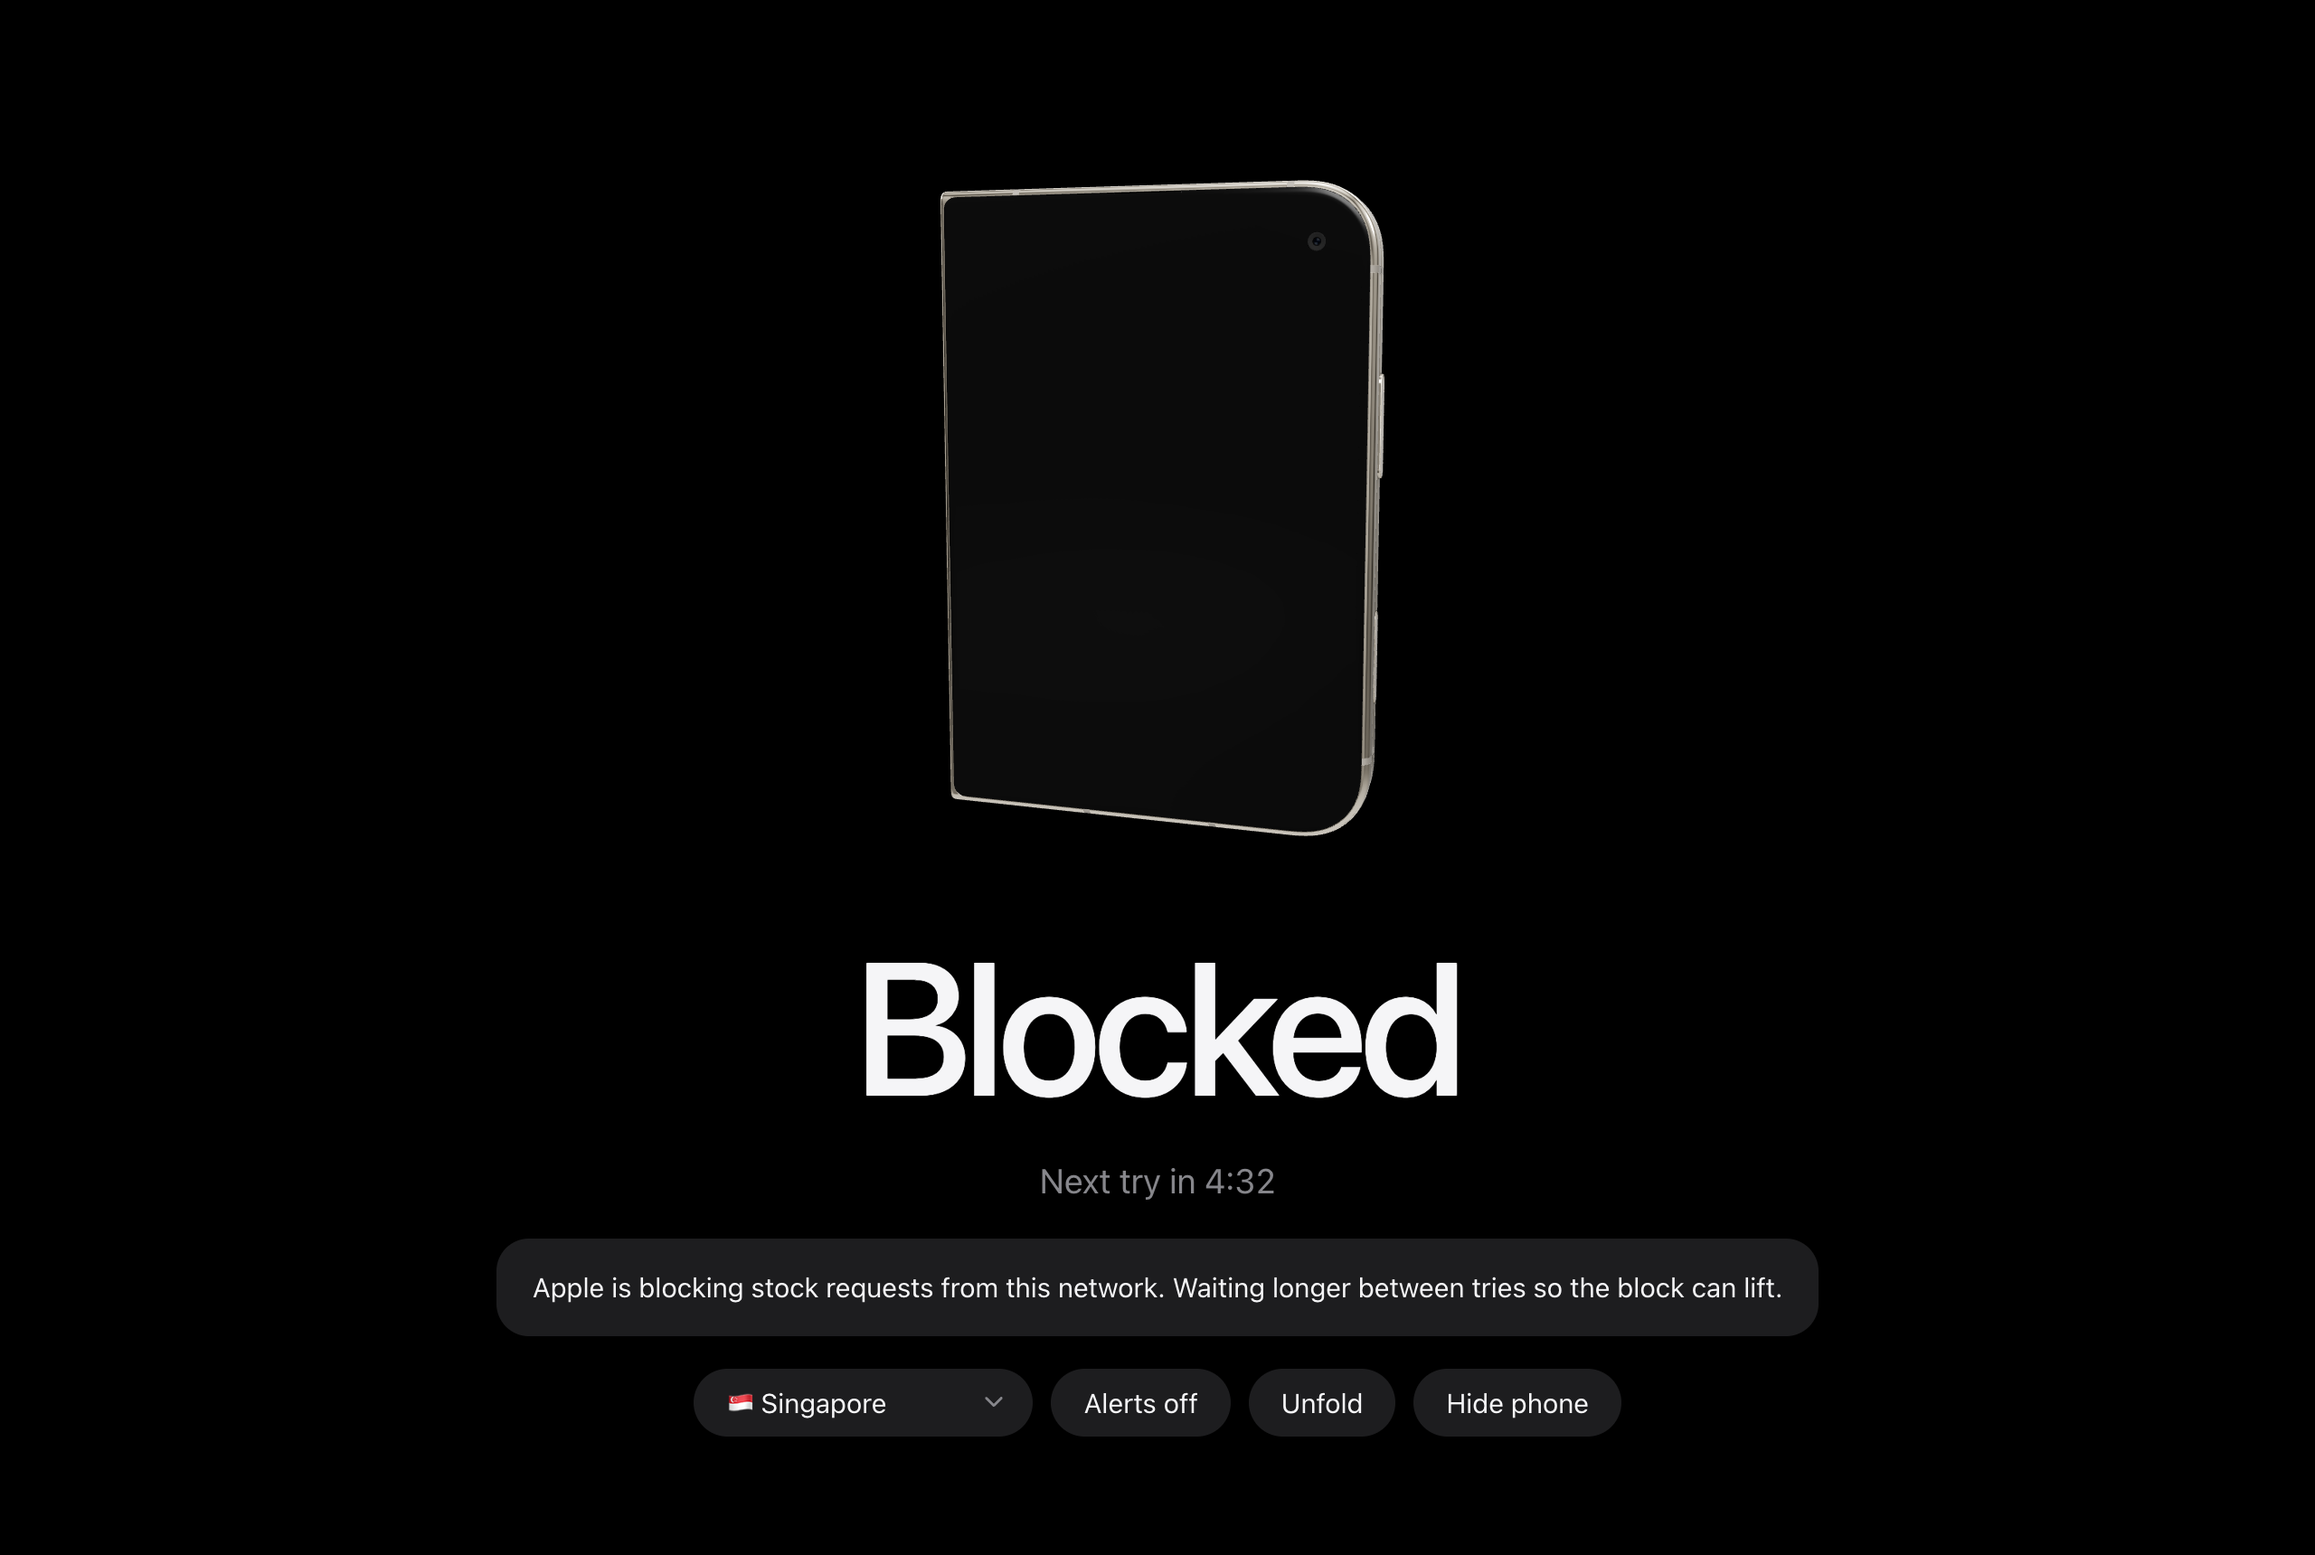
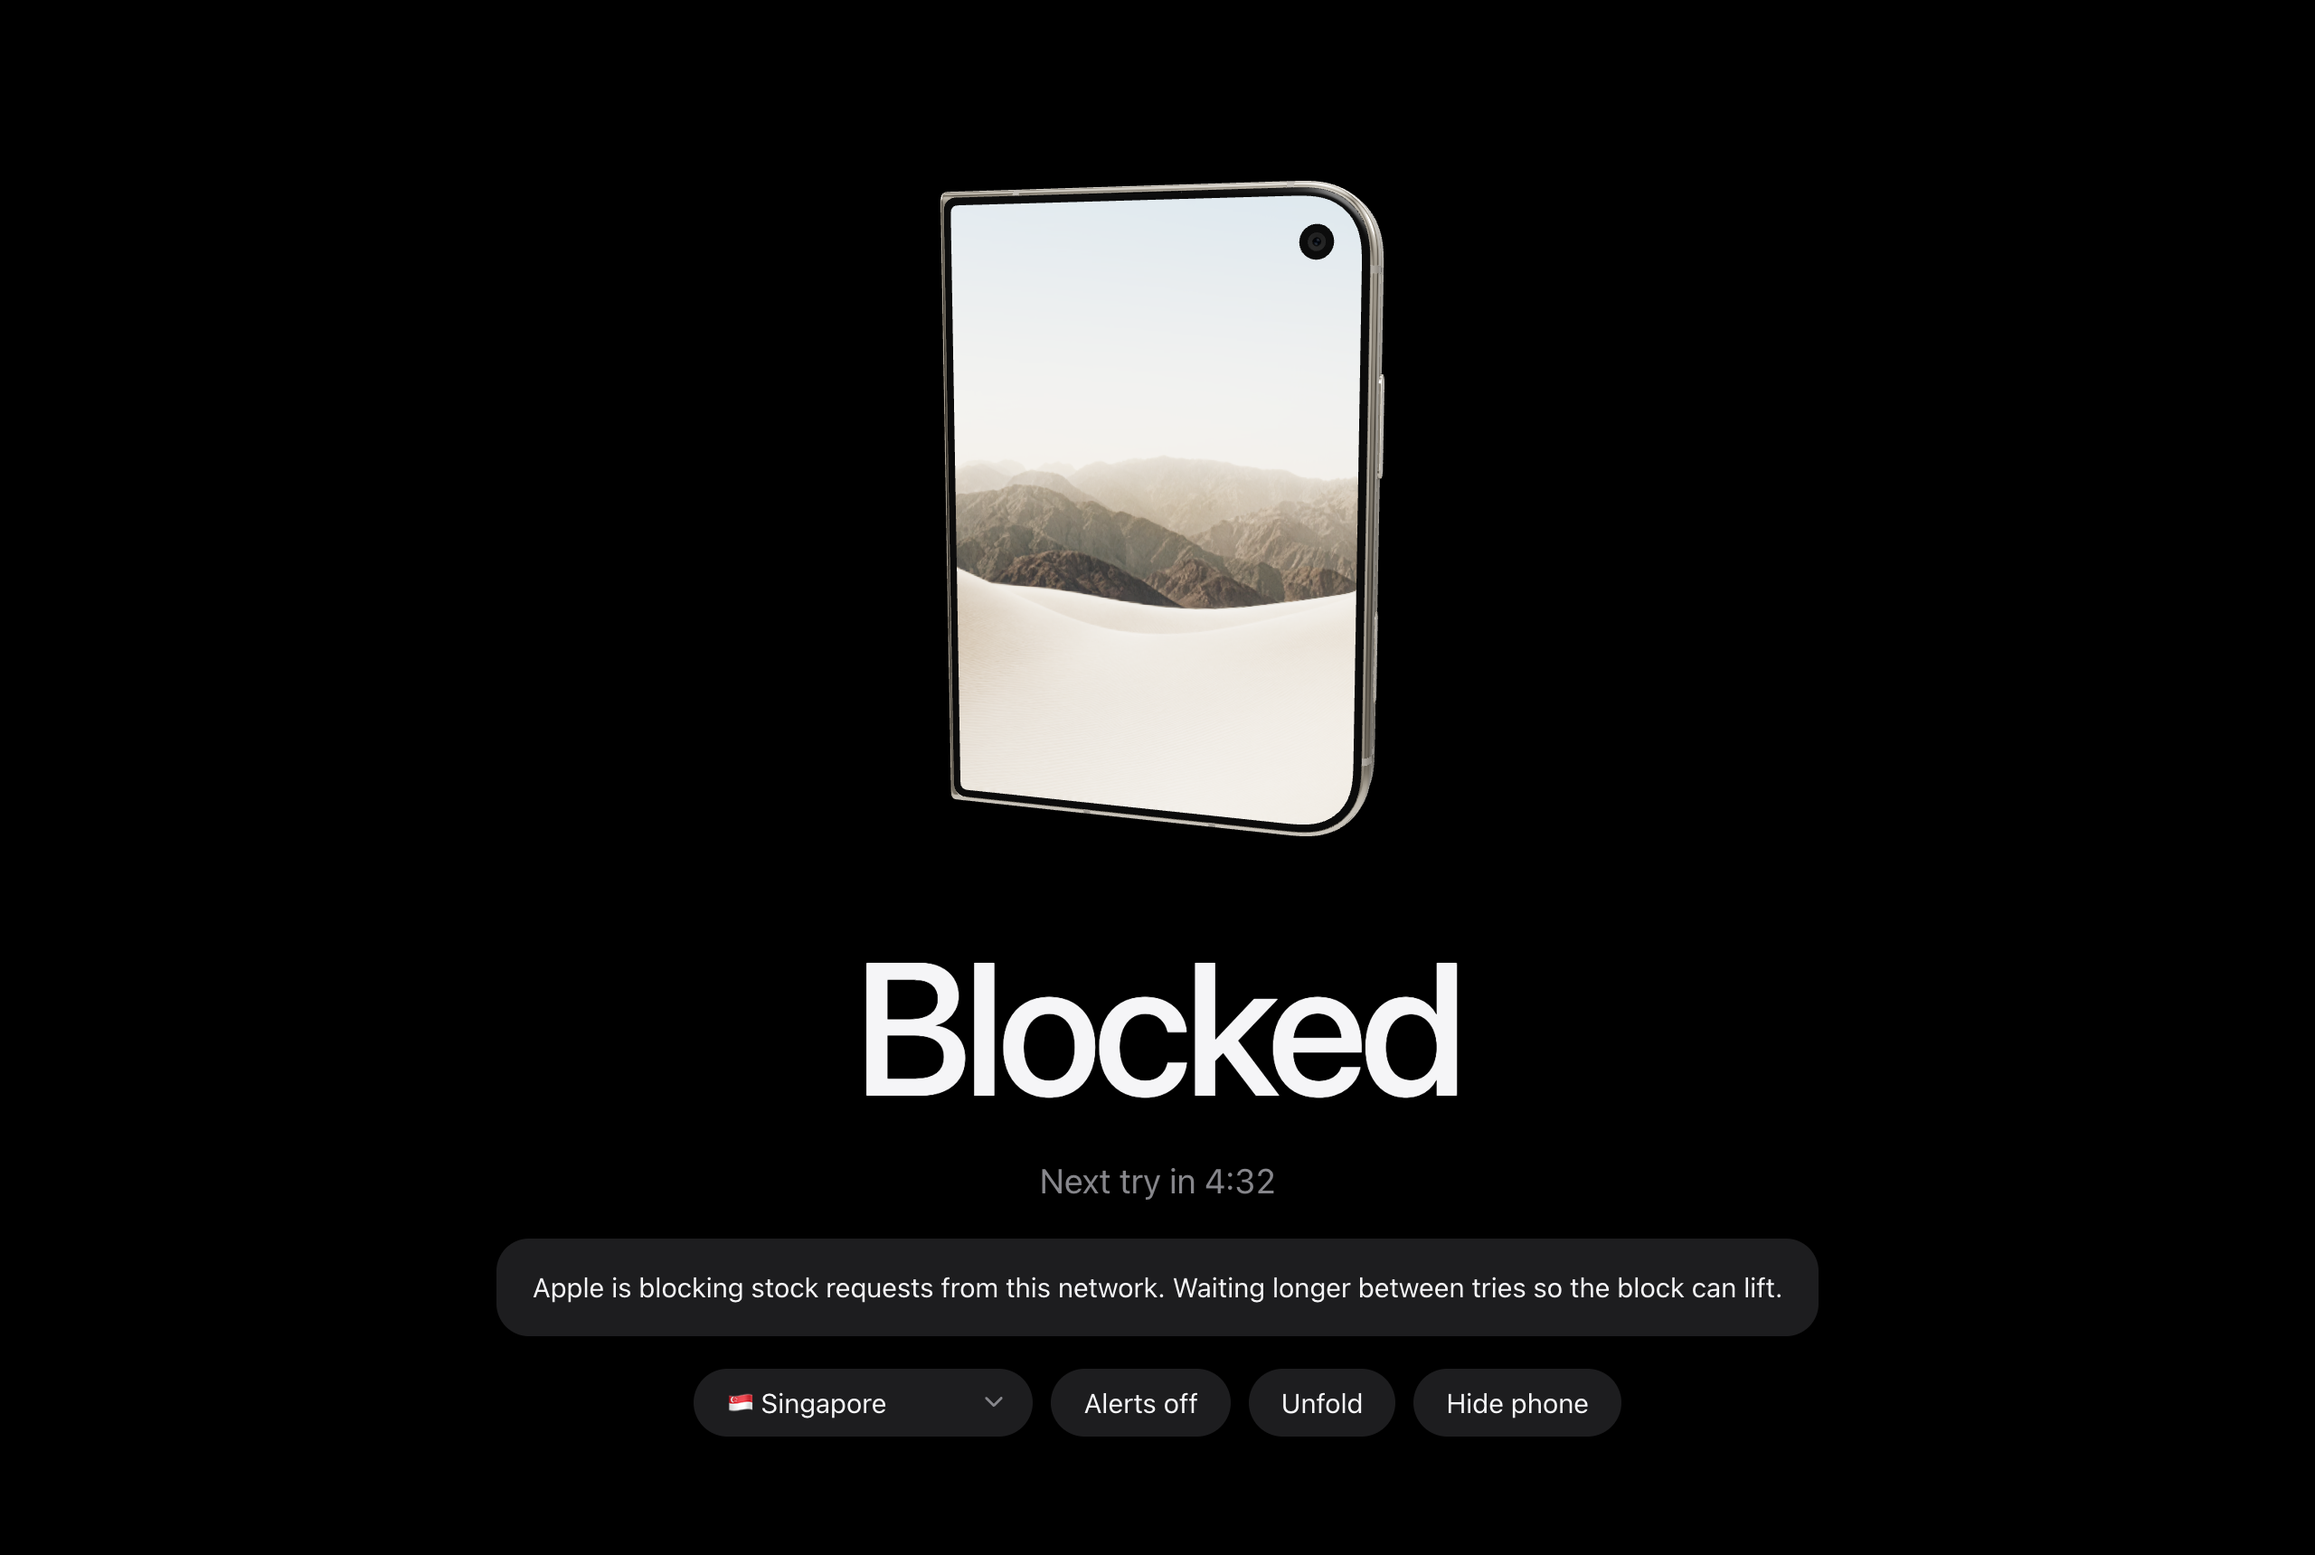
Light the cover display, animate the screens during the fold, stop zoom clipping
- The closed phone's outer display now shows the wallpaper instead of black.
- The inner wallpaper fades up and settles from a slight zoom while unfolding;
  the cover display fades in while closing.
- The phone is drawn on a full-page layer and placed over a stage block, so
  zooming in no longer shows a cut-off rectangle.

Changed region(s): [[0.4062, 0.1233, 0.5938, 0.5547]]

diff --git a/index.html b/index.html
@@ -49,15 +49,20 @@
   button[aria-pressed="true"] { background: var(--accent); color: var(--on-accent); }
   button:focus-visible, a:focus-visible, select:focus-visible, input:focus-visible { outline: 2px solid var(--accent); outline-offset: 3px; }
   /* Optional 3D phone, in its own block above the text. Drag to turn it, scroll to zoom. */
-  #bg { display: block; width: 100%; height: min(50vh, 520px); cursor: grab; touch-action: none; outline: none; }
-  #bg:active { cursor: grabbing; }
+  /* The drawing covers the whole page behind the text, so zooming in never shows a cut-off edge.
+     #stage is the empty block above the text that the phone sits in and that takes the dragging. */
+  #bg { position: fixed; inset: 0; width: 100%; height: 100%; z-index: 0; pointer-events: none; }
+  #stage { width: 100%; height: min(50vh, 520px); cursor: grab; touch-action: none; }
+  #stage:active { cursor: grabbing; }
+  main { position: relative; z-index: 1; }
   body.phone h1 { font-size: clamp(44px, 10vw, 104px); }
   body.phone main { gap: 18px; }
 </style>
 </head>
 <body>
+<canvas id="bg" aria-hidden="true" hidden></canvas>
 <main>
-  <canvas id="bg" aria-hidden="true" hidden></canvas>
+  <div id="stage" aria-hidden="true" hidden></div>
   <h1 id="headline">Checking…</h1>
   <ul class="hits" id="hits" hidden></ul>
   <div class="sub" id="sub"></div>
@@ -240,6 +245,42 @@ function foldable(THREE, source) {
   const hinge = (all.min.x + all.max.x) / 2, eps = width * 0.004, pivotZ = all.max.z;
   const half = (all.max.x - hinge) / 2, midY = (all.min.y + all.max.y) / 2;
 
+  // In Apple's unfolded pose the outer (cover) display shows a blank image, so the closed phone would
+  // have a black front. Light it with the middle of the inner display's wallpaper, at the same scale.
+  const area = (p) => (p.box.max.x - p.box.min.x) * (p.box.max.y - p.box.min.y);
+  const flat = (p) => p.box.max.z - p.box.min.z < width * 0.001;
+  const wall = real.filter((p) => p.material.emissiveMap && flat(p)).sort((a, b) => area(b) - area(a))[0];
+  const outer = Math.min(...real.filter((p) => p.box.max.x <= hinge + eps).map((p) => p.box.min.z)); // outside face of the left half
+  const cover = real
+    .filter((p) => p !== wall && flat(p) && p.box.max.x <= hinge + eps && p.box.min.z < outer + width * 0.002)
+    .sort((a, b) => area(b) - area(a))[0];
+  if (wall && cover && wall.geo.attributes.uv && area(cover) > area(wall) * 0.2) {
+    // Work out how the wallpaper's picture is laid across the inner display (u,v per metre of x,y)...
+    const wp = wall.geo.attributes.position, wuv = wall.geo.attributes.uv, wm = wall.box.getCenter(new THREE.Vector3());
+    let x0 = 0, x1 = 0, y0 = 0, y1 = 0;
+    for (let i = 1; i < wp.count; i++) {
+      if (wp.getX(i) < wp.getX(x0)) x0 = i; if (wp.getX(i) > wp.getX(x1)) x1 = i;
+      if (wp.getY(i) < wp.getY(y0)) y0 = i; if (wp.getY(i) > wp.getY(y1)) y1 = i;
+    }
+    const dx = wp.getX(x1) - wp.getX(x0), dy = wp.getY(y1) - wp.getY(y0);
+    const ux = (wuv.getX(x1) - wuv.getX(x0)) / dx, vx = (wuv.getY(x1) - wuv.getY(x0)) / dx;
+    const uy = (wuv.getX(y1) - wuv.getX(y0)) / dy, vy = (wuv.getY(y1) - wuv.getY(y0)) / dy;
+    const u0 = wuv.getX(x0) - ux * (wp.getX(x0) - wm.x) - uy * (wp.getY(x0) - wm.y);
+    const v0 = wuv.getY(x0) - vx * (wp.getX(x0) - wm.x) - vy * (wp.getY(x0) - wm.y);
+    // ...then lay the same picture across the cover display, mirrored so it reads the right way round.
+    const cp = cover.geo.attributes.position, cm = cover.box.getCenter(new THREE.Vector3());
+    const uv = new Float32Array(cp.count * 2);
+    for (let i = 0; i < cp.count; i++) {
+      const x = -(cp.getX(i) - cm.x), y = cp.getY(i) - cm.y;
+      uv[i * 2] = u0 + ux * x + uy * y; uv[i * 2 + 1] = v0 + vx * x + vy * y;
+    }
+    cover.geo.setAttribute("uv", new THREE.BufferAttribute(uv, 2));
+    cover.material = wall.material.clone();
+    cover.material.emissiveMap = wall.material.emissiveMap.clone(); // own copy, so the two screens animate apart
+    cover.lit = true;
+    wall.material.emissiveMap.center.set(0.5, 0.5);
+  }
+
   const group = new THREE.Group(), leaf = new THREE.Group(), bend = [];
   leaf.position.set(hinge, 0, pivotZ);
   group.add(leaf);
@@ -282,12 +323,20 @@ function foldable(THREE, source) {
       b.pos.needsUpdate = true; if (b.nor) b.nor.needsUpdate = true;
     }
     group.position.set(-(hinge + half * t), -midY, -pivotZ);
+    // The screens hand over as it moves: the inner wallpaper comes up and settles from a slight
+    // zoom while it unfolds, and the cover display fades in as it closes.
+    if (wall) {
+      const open = 1 - t, ease = open * open * (3 - 2 * open);
+      wall.material.emissiveIntensity = ease;
+      wall.material.emissiveMap.repeat.setScalar(1 / (1 + 0.18 * (1 - ease)));
+      if (cover && cover.lit) cover.material.emissiveIntensity = Math.min(1, Math.max(0, (t - 0.55) / 0.45));
+    }
   }
   set(1);
   return { group, set, width: all.max.x - all.min.x };
 }
 
-const canvas = document.getElementById("bg"), fold = document.getElementById("fold"), toggle = document.getElementById("phone");
+const canvas = document.getElementById("bg"), stage = document.getElementById("stage"), fold = document.getElementById("fold"), toggle = document.getElementById("phone");
 try {
   const probe = await fetch("/model/duo.usdz", { method: "HEAD" });
   if (!probe.ok) throw new Error("no model");
@@ -310,32 +359,36 @@ try {
   const reach = phone.width;
   camera.position.set(reach * 0.5, reach * 0.2, reach * 1.55); // close enough that the phone nearly fills the block
 
-  const controls = new OrbitControls(camera, canvas);
+  const controls = new OrbitControls(camera, stage);
   controls.enablePan = false;
   controls.enableDamping = true;
-  controls.minDistance = reach * 0.9;
+  controls.minDistance = reach * 0.6;
   controls.maxDistance = reach * 5;
   const calm = window.matchMedia("(prefers-reduced-motion: reduce)").matches;
   controls.autoRotate = !calm;
   controls.autoRotateSpeed = 1.2;
 
-  const resize = () => {
-    const w = canvas.clientWidth, h = canvas.clientHeight;
-    if (!w || !h) return;
-    renderer.setSize(w, h, false);
-    camera.aspect = w / h;
+  // The drawing fills the window; each frame the view is shifted and scaled so the phone sits in,
+  // and is sized to, the stage block above the text.
+  const resize = () => renderer.setSize(window.innerWidth, window.innerHeight, false);
+  window.addEventListener("resize", resize);
+  resize();
+  const frame = () => {
+    const W = window.innerWidth, H = window.innerHeight, box = stage.getBoundingClientRect();
+    if (!box.height) return;
+    camera.aspect = W / H;
+    camera.zoom = box.height / H; // the lens covers the whole window, so shrink the view to the stage's share of it
+    camera.setViewOffset(W, H, W / 2 - (box.left + box.width / 2), H / 2 - (box.top + box.height / 2), W, H);
     camera.updateProjectionMatrix();
   };
-  new ResizeObserver(resize).observe(canvas);
 
   // Show or hide the phone block. Hidden, the text sits alone in the middle of the page again.
   let hidden = false;
   try { hidden = localStorage.getItem("duo-phone-hidden") === "1"; } catch (e) {}
   const apply = () => {
-    canvas.hidden = hidden; fold.hidden = hidden; toggle.hidden = false;
+    canvas.hidden = hidden; stage.hidden = hidden; fold.hidden = hidden; toggle.hidden = false;
     document.body.classList.toggle("phone", !hidden);
     toggle.textContent = hidden ? "Show phone" : "Hide phone";
-    if (!hidden) resize();
   };
   toggle.addEventListener("click", () => {
     hidden = !hidden;
@@ -353,6 +406,7 @@ try {
       phone.set(at);
     }
     if (hidden) return;
+    frame();
     controls.update();
     renderer.render(scene, camera);
   });
@@ -363,7 +417,7 @@ try {
     fold.textContent = target ? "Unfold" : "Fold";
   });
 } catch (error) {
-  canvas.hidden = true; fold.hidden = true; toggle.hidden = true;
+  canvas.hidden = true; stage.hidden = true; fold.hidden = true; toggle.hidden = true;
   document.body.classList.remove("phone");
 }
 </script>

diff --git a/README.md b/README.md
@@ -76,8 +76,9 @@ Notes:
 - The model is drawn with [three.js](https://threejs.org), loaded from a CDN only when the model
   is present. Without it the page is plain and loads nothing extra.
 - Apple's file has two still poses and no fold animation. The page makes the fold itself by
-  bending the unfolded pose at the hinge, so the crease is sharper than on the real device, and
-  the cover display is dark when closed.
+  bending the unfolded pose at the hinge, so the crease is sharper than on the real device. The
+  wallpaper fades and settles as it opens, and the cover display shows the middle of the same
+  wallpaper when closed, because Apple's unfolded pose leaves that screen blank.
 
 ## Using the page
 
